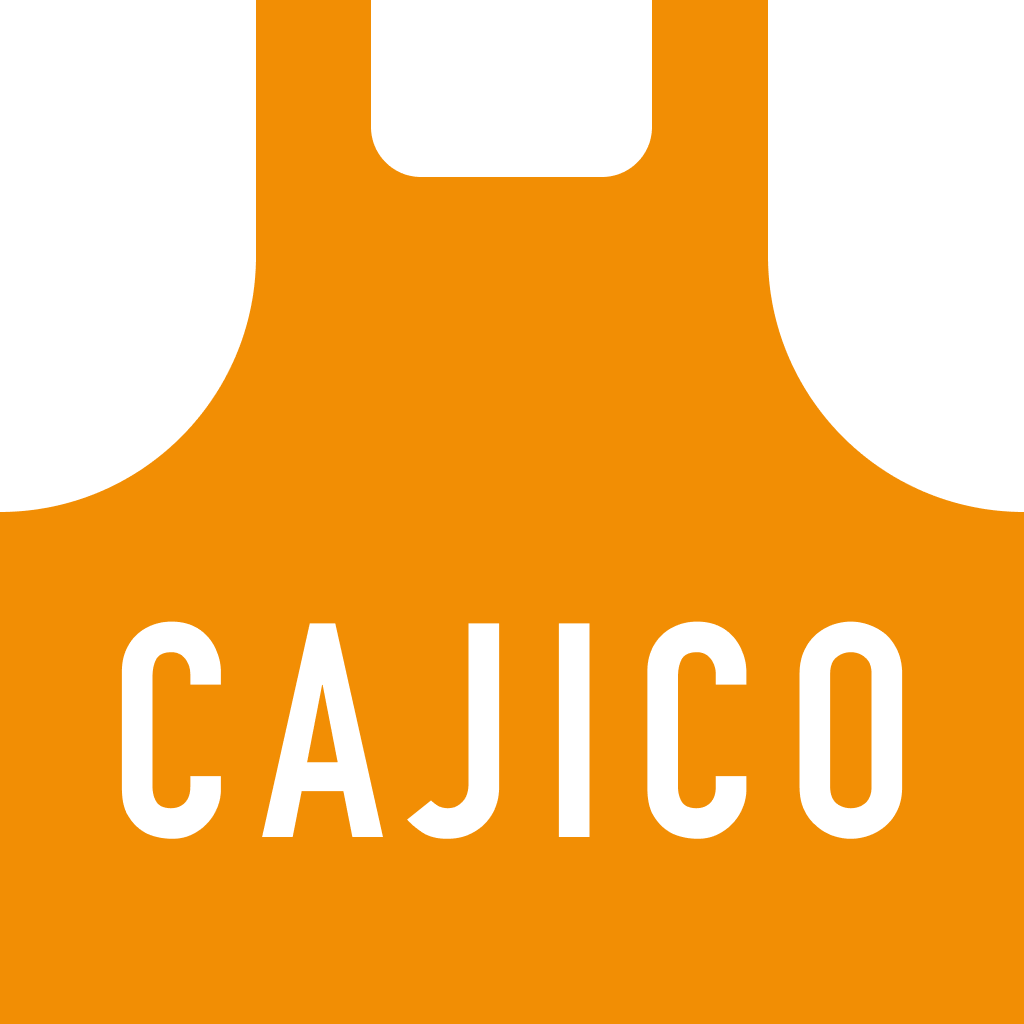
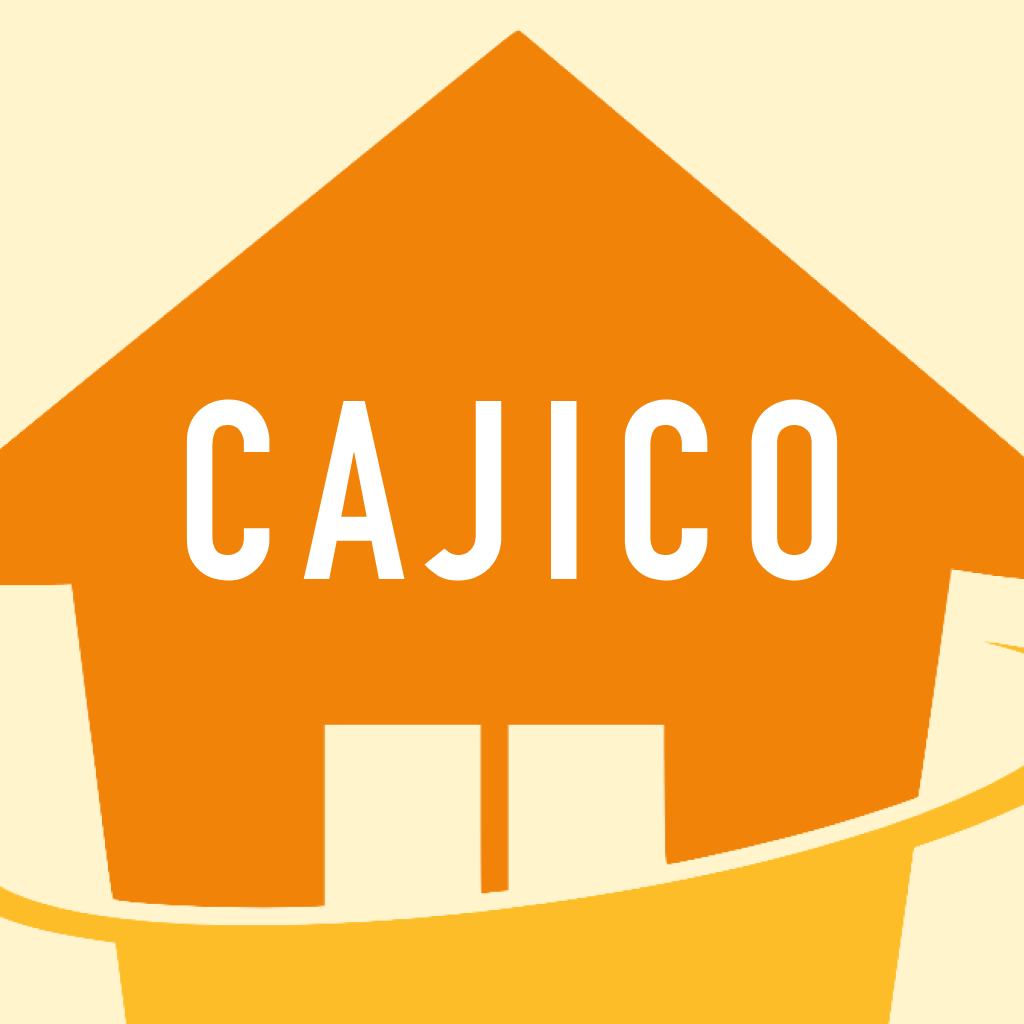
[fix]icon変更

diff --git a/lib/constant/app_size.dart b/lib/constant/app_size.dart
@@ -1,0 +1,7 @@
+const horizontalPaddingNormal = 20.0;
+const buttonHeight = 56.0;
+const textSizeMedium = 14.0;
+const formIconSize = 32.0;
+const buttonIconSize = 24.0;
+const progressCircleRadius = 16.5;
+const progressCircleDiameter = 33.0;

diff --git a/lib/constant/app_strings.dart b/lib/constant/app_strings.dart
@@ -1,0 +1,7 @@
+class Strings {
+  Strings._() {
+    throw AssertionError('private constructor');
+  }
+
+  // common
+}
